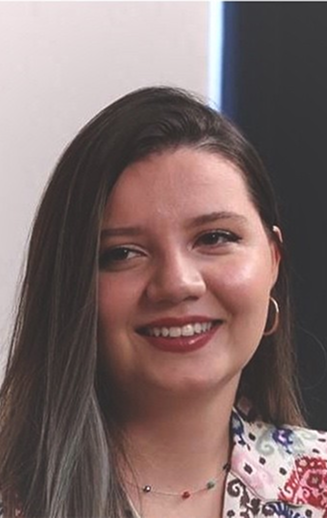
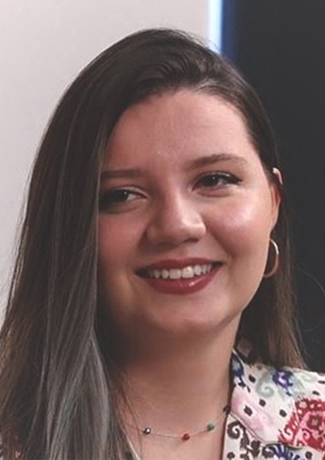
finish team page

diff --git a/src/components/TeamContent.jsx b/src/components/TeamContent.jsx
@@ -38,7 +38,7 @@ function TeamContent() {
           whileInView="visible"
           viewport={{ once: true }}
           variants={fadeUp}
-          className="text-2xl md:text-4xl lg:text-5xl xl:text-6xl font-bold text-gray-900 mb-8 leading-tight"
+          className="text-2xl md:text-4xl lg:text-5xl xl:text-6xl font-black text-gray-900 mb-8 leading-tight"
         >
           {t("team.hero.title")}
         </motion.h1>
@@ -68,34 +68,40 @@ function TeamContent() {
             whileInView="visible"
             viewport={{ once: true }}
             variants={fadeUp}
-            className="bg-white rounded-[40px] overflow-hidden shadow-sm border border-gray-100 flex flex-col lg:flex-row items-stretch"
+            className="bg-white rounded-[40px] overflow-hidden shadow-sm border border-gray-100 flex flex-col lg:flex-row items-stretch max-w-full sm:max-w-xl lg:max-w-6xl mx-auto w-full"
           >
-            <div className="lg:w-2/5 relative h-80 lg:h-[520px]">
+            <div className="lg:w-2/5 w-full relative aspect-[19/20] lg:aspect-[2/3]">
               <Image
                 src={arnisaImg}
                 alt={t("team.members.arnisa.name")}
-                className="w-full h-full object-cover"
+                className="w-full h-full object-cover object-top"
                 fill
               />
             </div>
-            <div className="lg:w-3/5 p-8 md:p-16 flex flex-col justify-center">
-              <h2 className="text-2xl md:text-3xl font-bold text-gray-900 mb-2">
-                {t("team.members.arnisa.name")}
-              </h2>
-              <span className="text-cyan-500 font-bold text-sm md:text-base tracking-widest uppercase mb-8 block">
-                {t("team.members.arnisa.role")}
-              </span>
-              <p className="text-gray-600 leading-relaxed mb-10 text-sm md:text-lg">
-                {t("team.members.arnisa.bio")}
-              </p>
-              <a
-                href={t("team.members.arnisa.linkedin")}
-                target="_blank"
-                rel="noopener noreferrer"
-                className="w-10 h-10 bg-gray-100 rounded-lg flex items-center justify-center text-gray-400 hover:text-cyan-500 hover:bg-cyan-50 transition-colors"
-              >
-                <Linkedin size={20} />
-              </a>
+            <div className="lg:w-3/5 p-8 md:p-16 flex flex-col justify-between flex-1">
+              <div>
+                <h2 className="text-2xl md:text-3xl font-bold text-gray-900 mb-2">
+                  {t("team.members.arnisa.name")}
+                </h2>
+                <span className="text-cyan-500 font-bold text-sm md:text-base tracking-widest uppercase block">
+                  {t("team.members.arnisa.role")}
+                </span>
+              </div>
+              <div className="flex flex-col justify-center flex-1 py-8">
+                <p className="text-gray-600 leading-relaxed text-sm md:text-lg m-0">
+                  {t("team.members.arnisa.bio")}
+                </p>
+              </div>
+              <div>
+                <a
+                  href={t("team.members.arnisa.linkedin")}
+                  target="_blank"
+                  rel="noopener noreferrer"
+                  className="w-10 h-10 bg-gray-100 rounded-lg inline-flex items-center justify-center text-gray-400 hover:text-cyan-500 hover:bg-cyan-50 transition-colors"
+                >
+                  <Linkedin size={20} />
+                </a>
+              </div>
             </div>
           </motion.div>
         </div>
@@ -121,23 +127,23 @@ function TeamContent() {
             whileInView="visible"
             viewport={{ once: true }}
             variants={stagger}
-            className="grid grid-cols-1 lg:grid-cols-2 gap-8"
+            className="grid grid-cols-1 lg:grid-cols-2 gap-8 lg:gap-56 max-w-6xl mx-auto"
           >
             {members.map((member) => (
               <motion.div
                 key={member.key}
                 variants={fadeUp}
-                className="bg-white rounded-[40px] overflow-hidden border border-gray-100 flex flex-col"
+                className="bg-white rounded-[40px] overflow-hidden flex flex-col h-full w-full max-w-xl mx-auto"
               >
-                <div className="relative h-[400px] w-full">
+                <div className="relative h-[450px] lg:h-[550px] w-full">
                   <Image
                     src={member.image}
                     alt={t(`team.members.${member.key}.name`)}
-                    className="w-full h-full object-cover"
+                    className="w-full h-full object-cover object-top"
                     fill
                   />
                 </div>
-                <div className="p-10 flex flex-col flex-1">
+                <div className="p-6 md:p-8 flex flex-col flex-1">
                   <h3 className="text-2xl md:text-3xl font-bold text-gray-900 mb-2">
                     {t(`team.members.${member.key}.name`)}
                   </h3>
